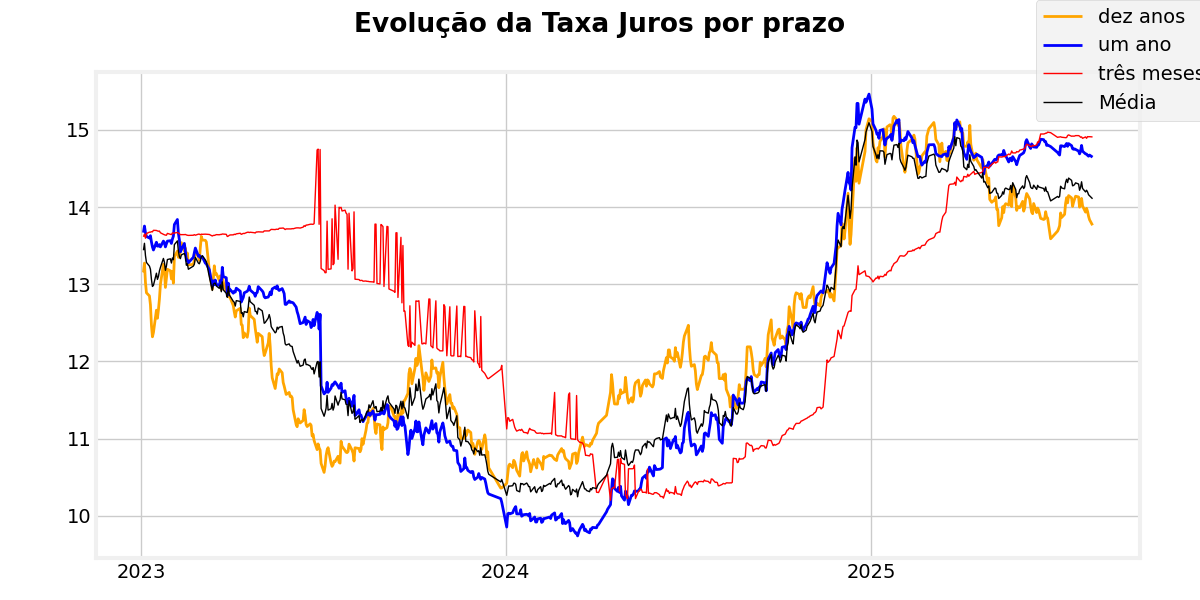
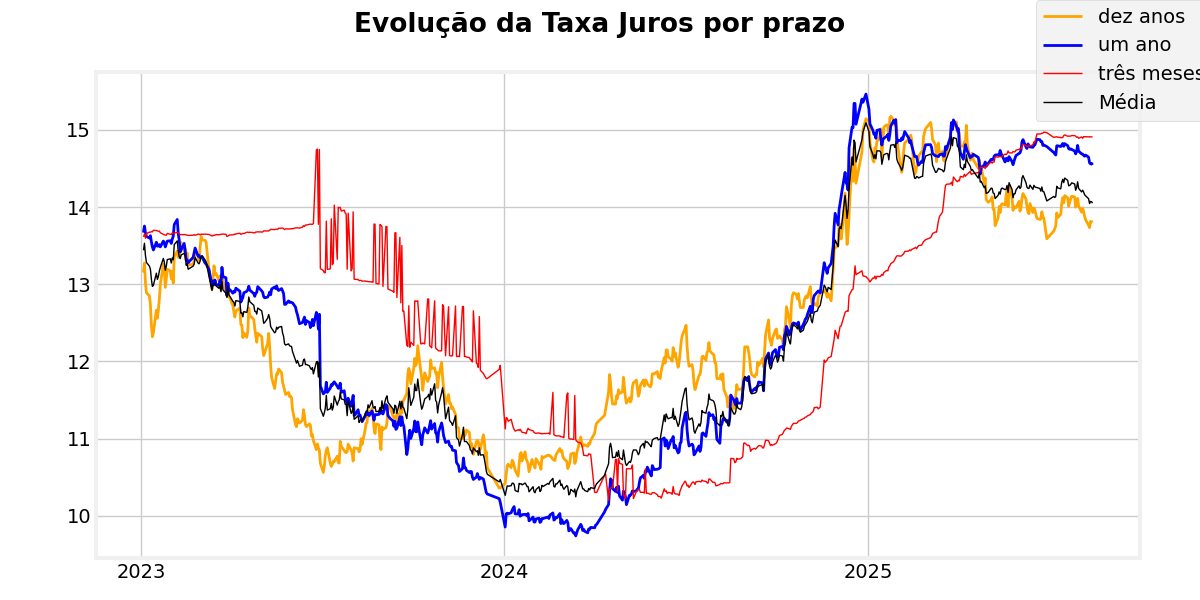
atualização app

diff --git a/app.py b/app.py
@@ -33,8 +33,8 @@ def grafico_curva_juros(df):
 
 
 # 🔄 Carregar dados
+caminho = r"https://raw.githubusercontent.com/CarlosLaud/Juros/refs/heads/main/dados/curva.csv"
 
-caminho ="https://raw.githubusercontent.com/CarlosLaud/Juros/refs/heads/main/curva.csv"
 df = carregar_dados(caminho)
 
 dataref = "12/08/2025"
@@ -45,7 +45,7 @@ st.subheader("💰 Curva de Juros")
 fig_valor = grafico_curva_juros(df)
 st.pyplot(fig_valor)
 
-caminho1 = "https://raw.githubusercontent.com/CarlosLaud/Juros/refs/heads/main/juros.csv"
+caminho1 = r"https://raw.githubusercontent.com/CarlosLaud/Juros/refs/heads/main/dados/juros.csv"
 
 df_juros = carregar_dados(caminho1)
 
